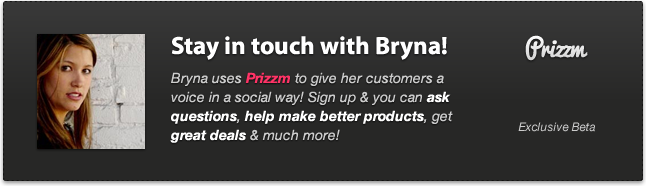
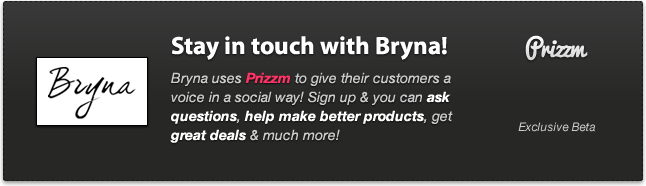
notification changes.

Changed region(s): [[0.031, 0.1613, 0.2477, 0.8065], [0.5263, 0.3763, 0.7121, 0.457]]

diff --git a/app/assets/stylesheets/email.scss b/app/assets/stylesheets/email.scss
@@ -49,13 +49,14 @@ table.email
     
   }
   
-  table.content, table.content td.content
+  table.content, td.content
   {
     width: 584px;
     height: 124px;
     -premailer-width: 584;
     -premailer-height: 124;
-    background: #dcdcdc url("/assets/email/box.png") no-repeat;
+    background: #2c2c2b url("/assets/email/box.png") no-repeat;
+    background-color: #2c2c2c;
   }
   
   a

diff --git a/app/assets/stylesheets/application.css b/app/assets/stylesheets/application.css
@@ -3,6 +3,7 @@
  * and any sub-directories. You're free to add application-wide styles to this file and they'll appear at
  * the top of the compiled file, but it's generally better to create a new file per style scope.
  *= require_self
+ *= require vendor/jquery.qtip.css
  *= require globals
  *= require_tree . 
 */

diff --git a/app/assets/javascripts/application.js b/app/assets/javascripts/application.js
@@ -6,4 +6,5 @@
 //
 //= require jquery
 //= require jquery_ujs
-//= require_tree .
+//= require vendor/jquery.qtip.js
+// = require_tree .

diff --git a/db/schema.rb b/db/schema.rb
@@ -11,7 +11,7 @@
 #
 # It's strongly recommended to check this file into your version control system.
 
-ActiveRecord::Schema.define(:version => 20110928204254) do
+ActiveRecord::Schema.define(:version => 20111004011210) do
 
   create_table "brands", :force => true do |t|
     t.string   "email",                                 :default => "", :null => false
@@ -81,6 +81,7 @@ ActiveRecord::Schema.define(:version => 20110928204254) do
     t.string   "photo"
     t.datetime "created_at"
     t.datetime "updated_at"
+    t.boolean  "on_invite_list"
   end
 
   add_index "users", ["email"], :name => "index_users_on_email", :unique => true

diff --git a/config/environments/development.rb b/config/environments/development.rb
@@ -30,7 +30,7 @@ NewPrizzmCom::Application.configure do
   
   # Action Mailer default url
   config.action_mailer.delivery_method = :sendmail
-  config.action_mailer.default_url_options = { :host => 'localhost:3000' }
+  config.action_mailer.default_url_options = { :host => 'localhost:5000' }
   config.action_mailer.sendmail_settings = { :arguments => '-i' }
   
 end

diff --git a/app/controllers/router_controller.rb b/app/controllers/router_controller.rb
@@ -8,6 +8,15 @@ class RouterController < ApplicationController
     end
   end
   
+  def join
+    if current_user
+      current_user.update_attribute :on_invite_list, true
+      respond_to do |wants|
+        wants.js
+      end
+    end
+  end
+  
   private
   
     def find_invite

diff --git a/app/helpers/application_helper.rb b/app/helpers/application_helper.rb
@@ -66,6 +66,8 @@ module ApplicationHelper
     case value
       when Time then ("%s ago." % time_ago_in_words(value)).capitalize
       when String then truncate(value, options)
+      when TrueClass then "Yes"
+      when FalseClass then "No"
       else "-"
     end
   end

diff --git a/app/helpers/notifications_helper.rb b/app/helpers/notifications_helper.rb
@@ -13,8 +13,8 @@ module NotificationsHelper
     end
   end
   
-  def image_link (image_url, url)
-    link_to image_tag(image_url), url
+  def image_link (image_url, url, options = {})
+    link_to image_tag(image_url, options), url
   end
   
   def lines (&block)

diff --git a/app/observers/invite_observer.rb b/app/observers/invite_observer.rb
@@ -5,7 +5,7 @@ class InviteObserver < ActiveRecord::Observer
   def after_create (invite)
     case invite
       when Invites::Feedback
-        Notifications.feedback(invite).deliver
+        # Notifications.feedback(invite).deliver
     end
   end
   

diff --git a/config/routes.rb b/config/routes.rb
@@ -33,6 +33,7 @@ NewPrizzmCom::Application.routes.draw do
   
   # Router
   get 'invited/:invite_code' => 'router#invite', :as => :invited
+  post 'beta/join.js' => 'router#join', :as => :beta_join
   
   # Sandbox
   get 'sandbox' => "website#sandbox"

diff --git a/app/helpers/brands/base_helper.rb b/app/helpers/brands/base_helper.rb
@@ -1,0 +1,10 @@
+module Brands::BaseHelper
+  
+  def link (object)
+    case object
+      when Product then link_to object.name, brands_product_path(object)
+      else super(object)
+    end
+  end
+  
+end

diff --git a/db/migrate/20111004011210_add_beta_list_join_to_users.rb b/db/migrate/20111004011210_add_beta_list_join_to_users.rb
@@ -1,0 +1,5 @@
+class AddBetaListJoinToUsers < ActiveRecord::Migration
+  def change
+    add_column :users, :on_invite_list, :boolean
+  end
+end
